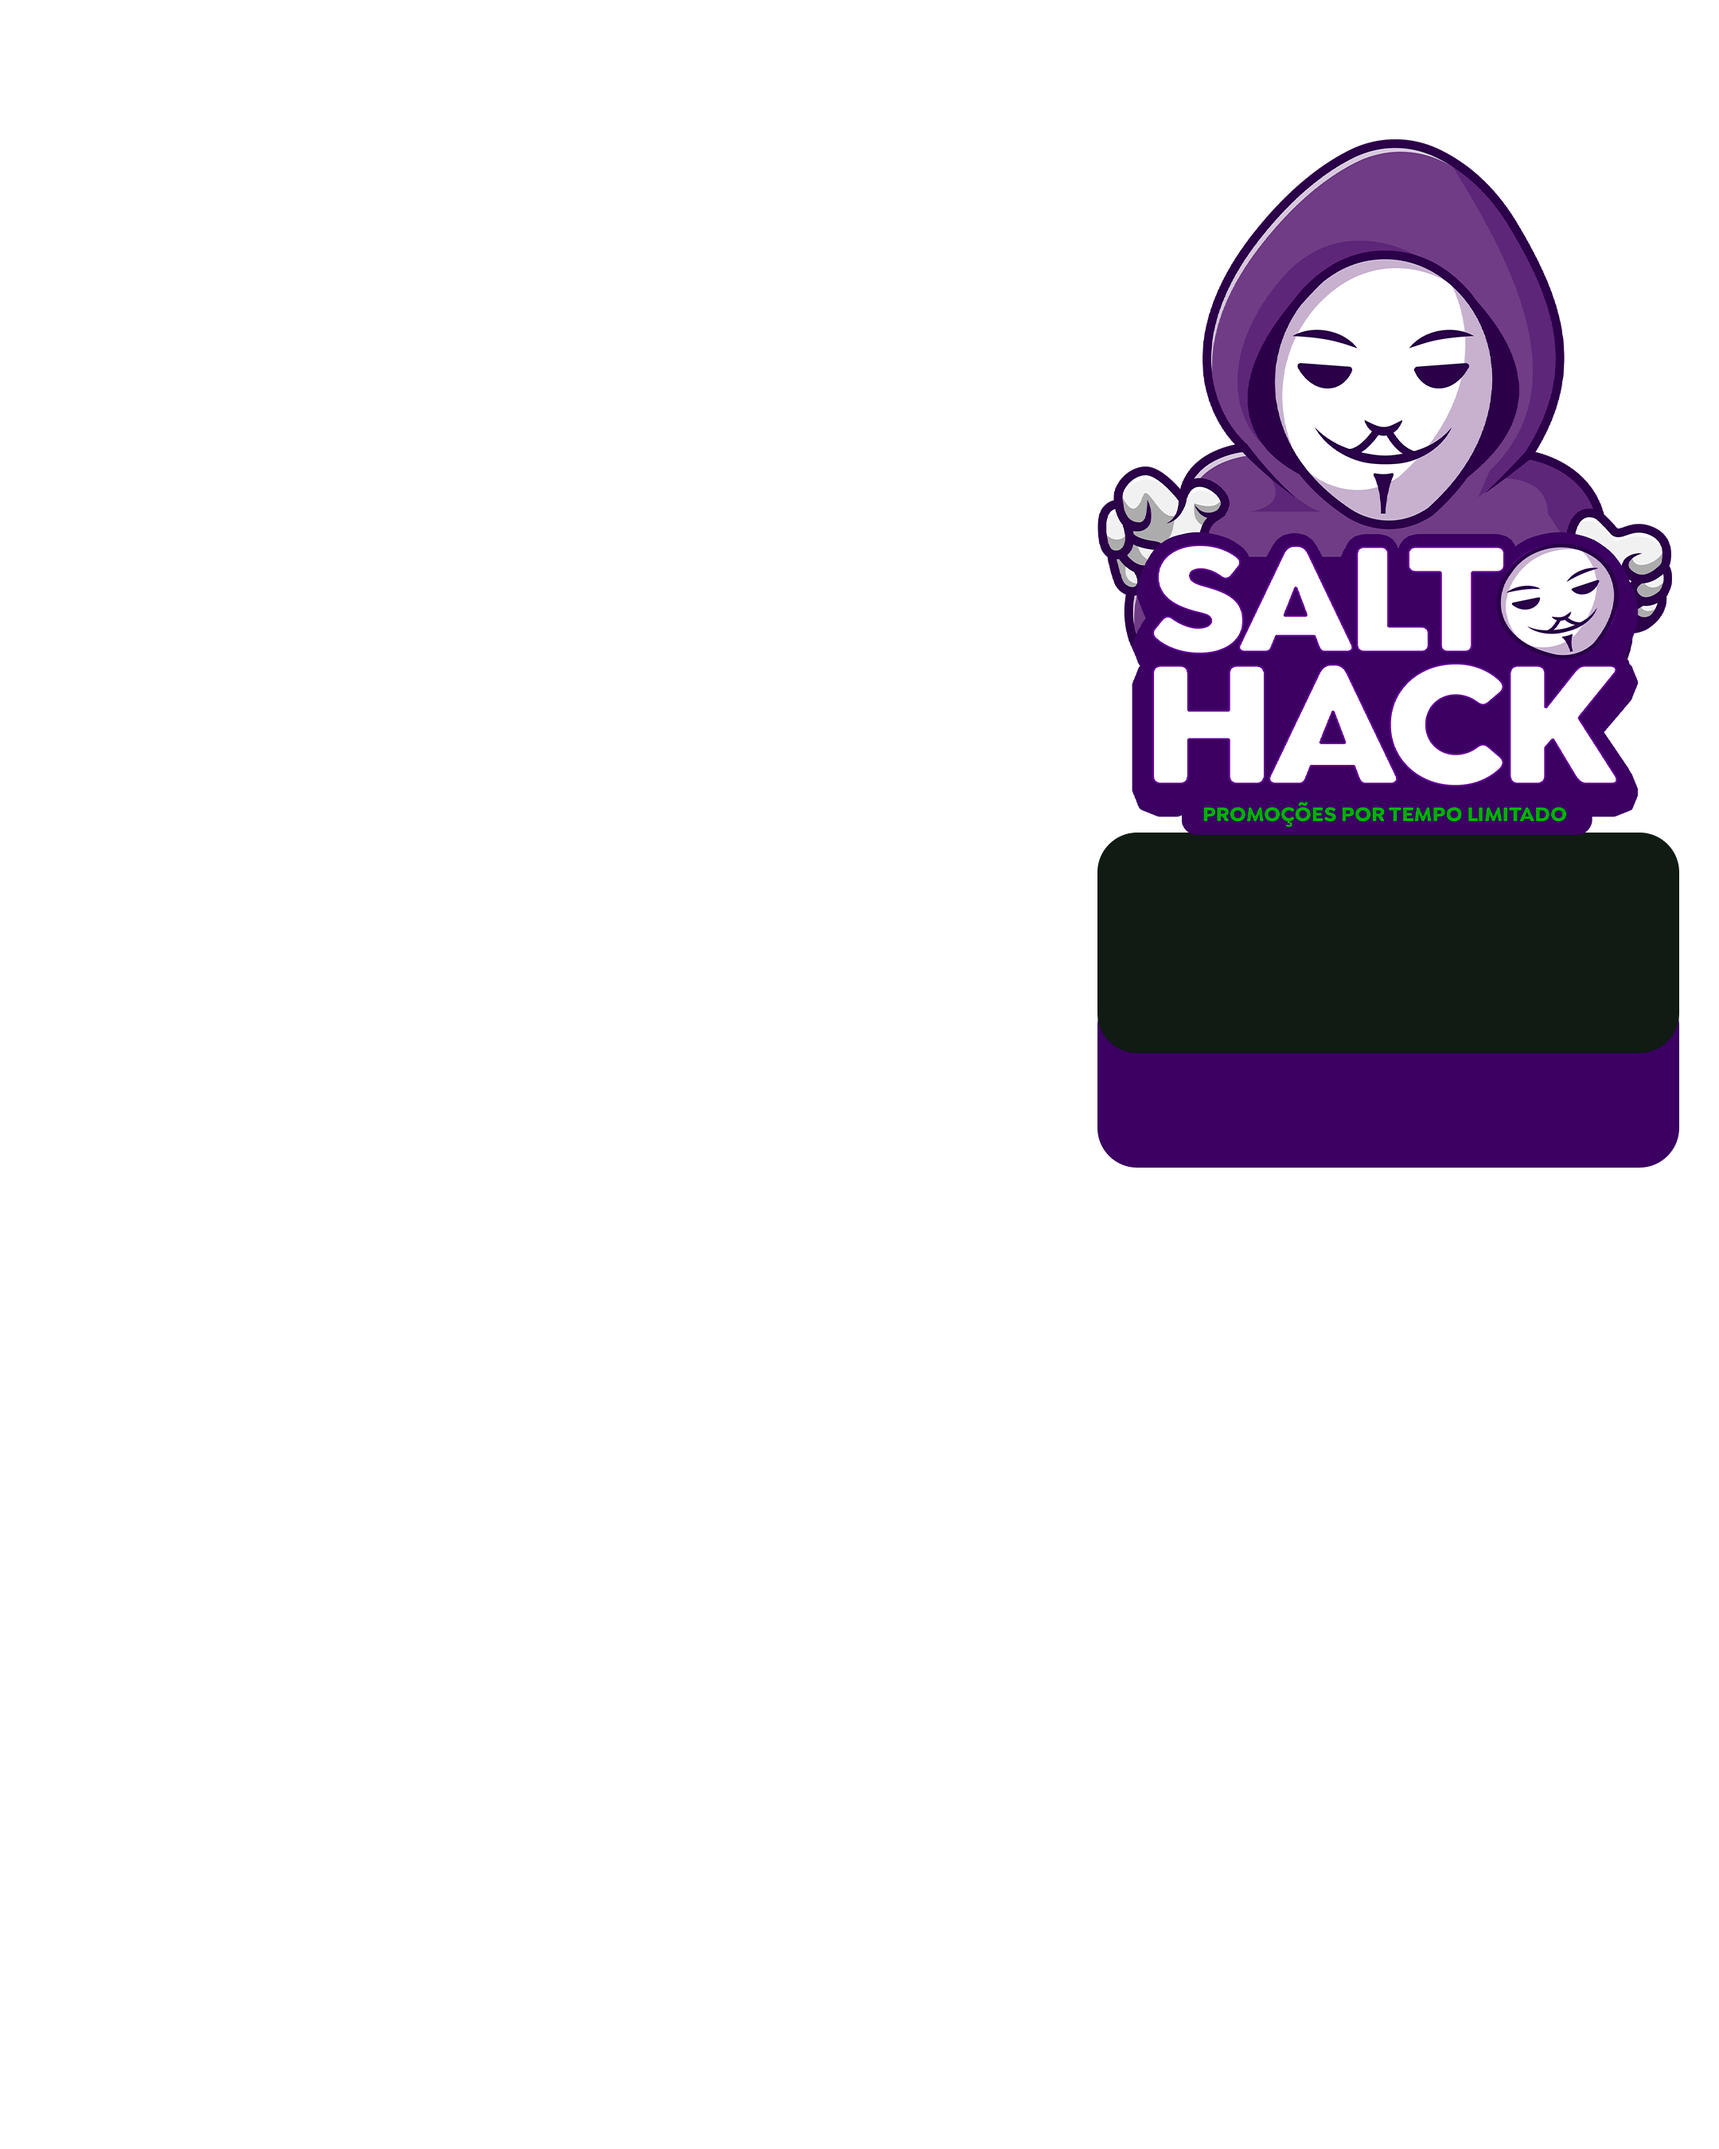
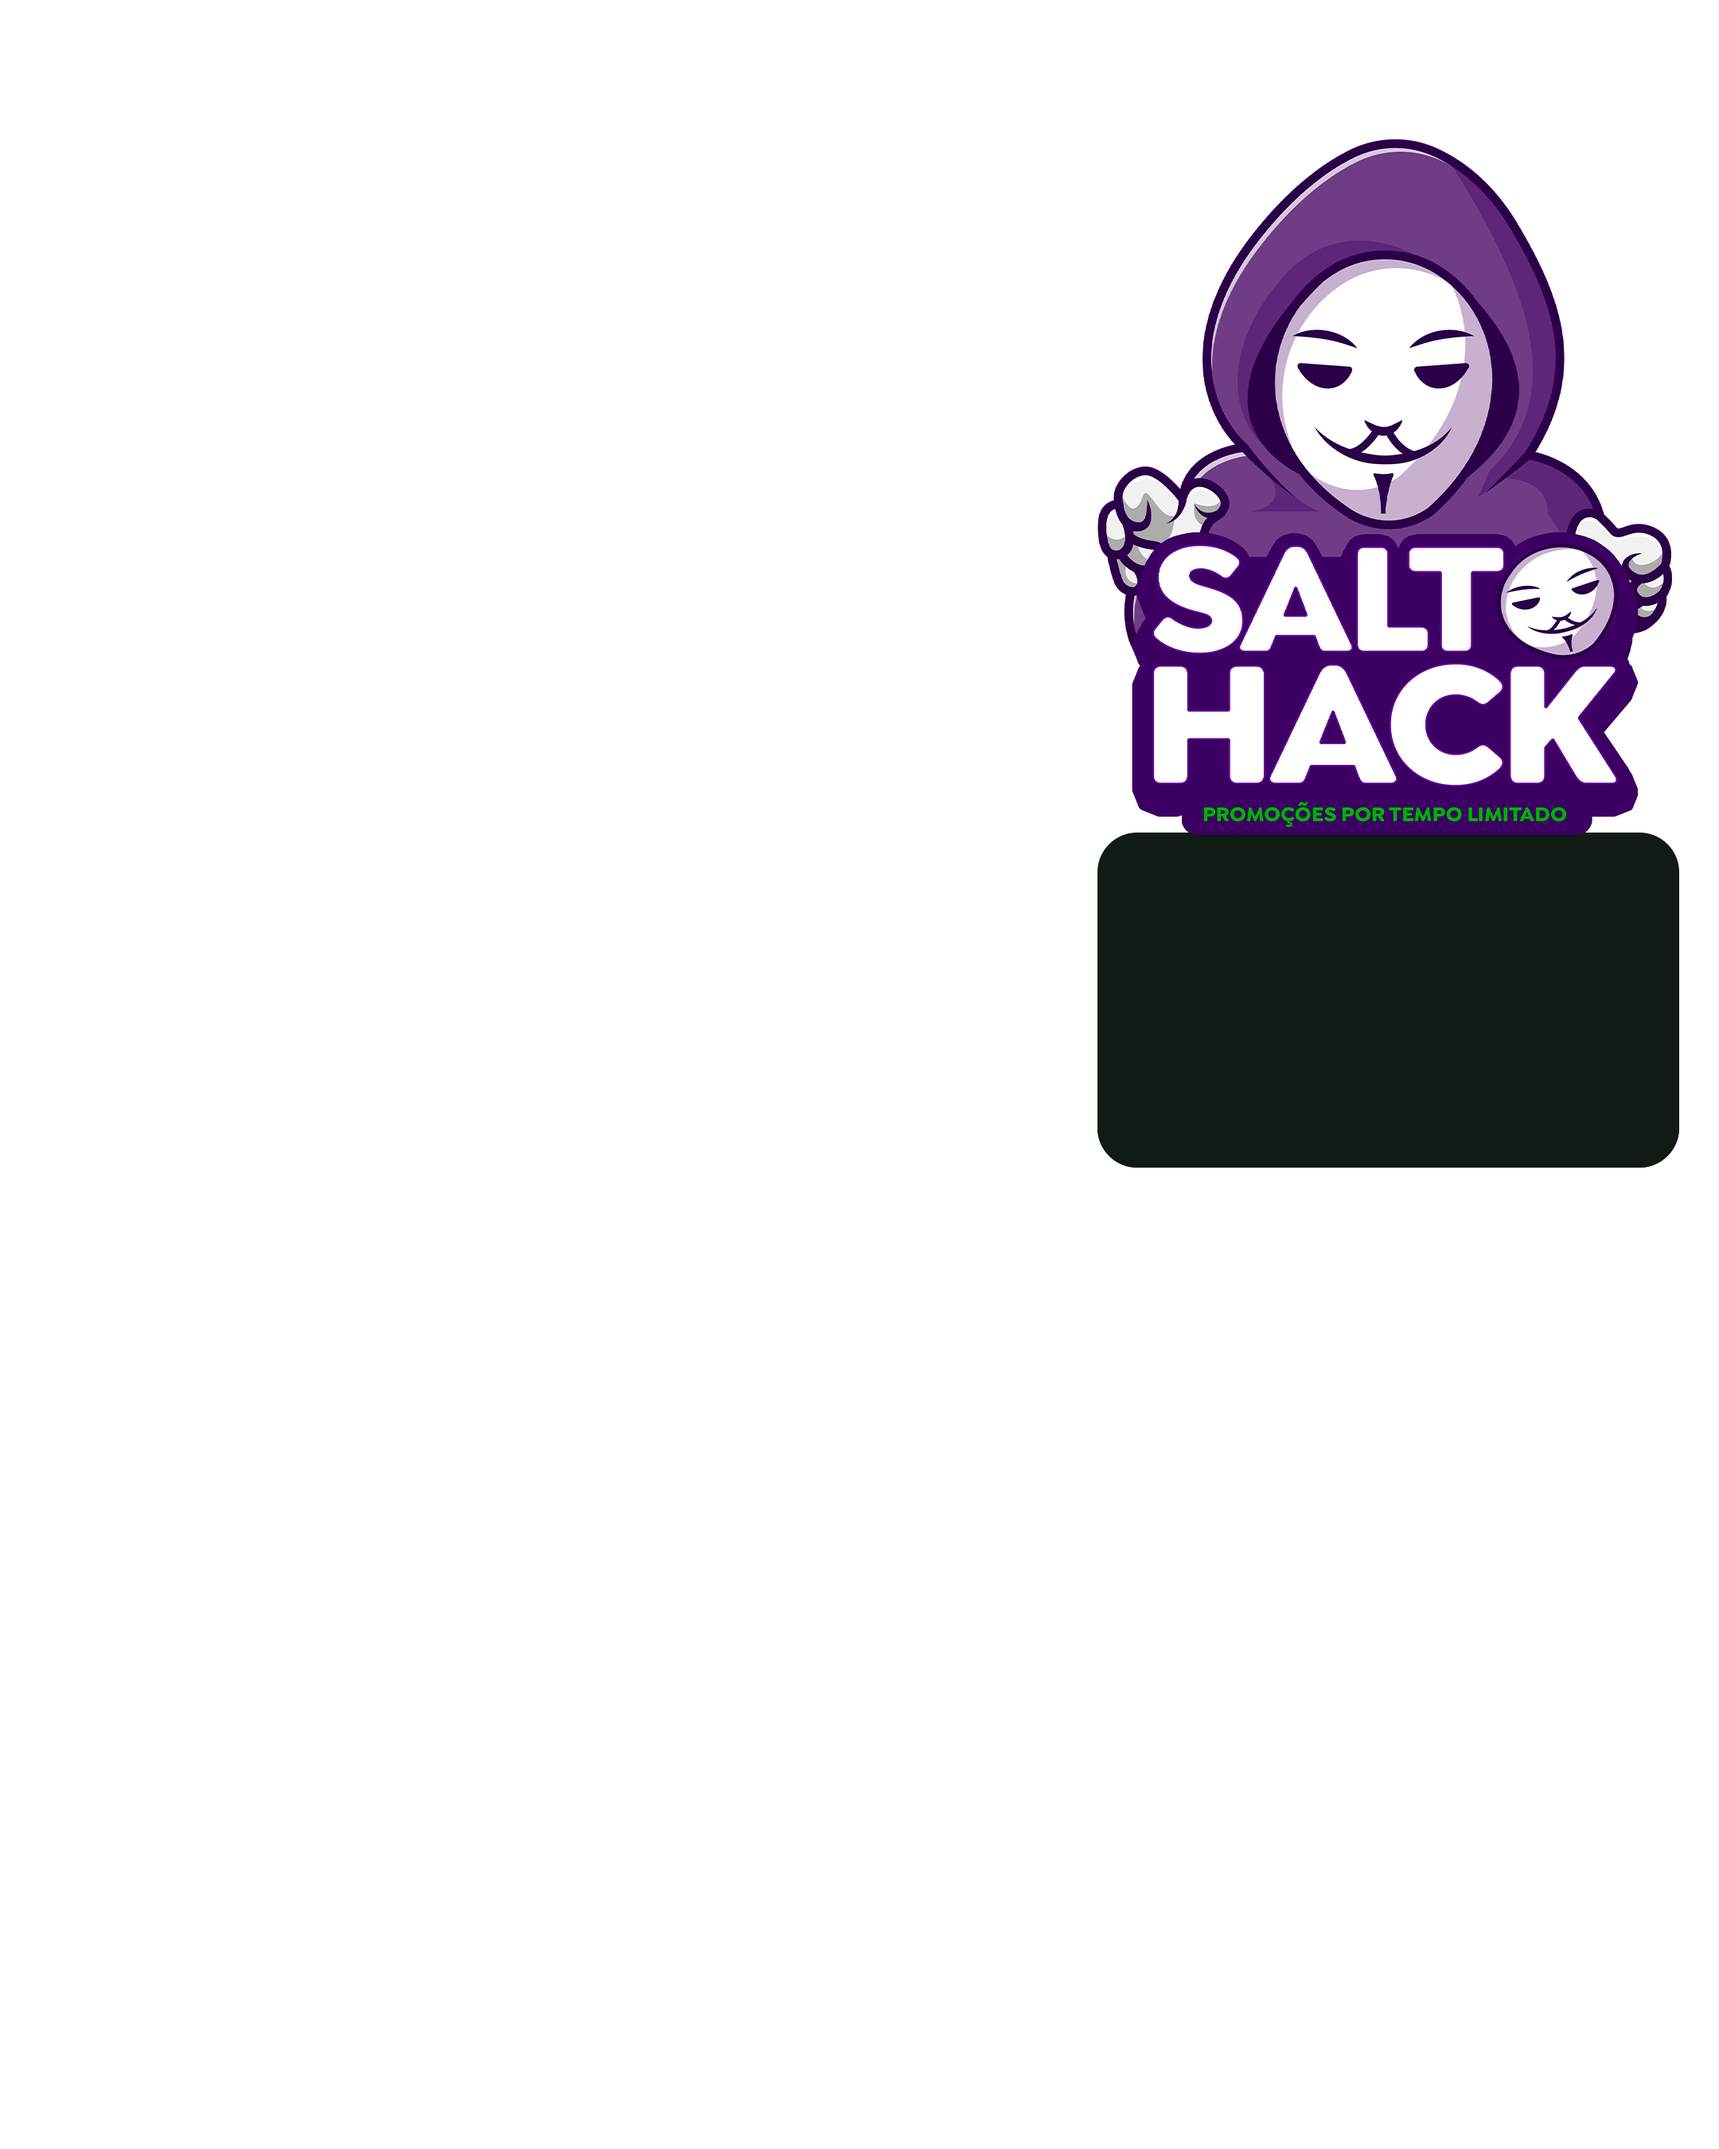
ajustar posiciones de elementos en CategorySection y comentar código no utilizado

Changed region(s): [[0.6204, 0.4667, 0.9926, 0.56]]

diff --git a/src/components/react/catalogo/artes/CategorySection.tsx b/src/components/react/catalogo/artes/CategorySection.tsx
@@ -71,7 +71,7 @@ export const CategorySection = ({
             </div>
           </div>
 
-          <div className=" absolute  top-[630px] right-[140px] text-5xl text-center z-40">
+          <div className=" absolute  top-[670px] right-[135px] text-5xl text-center z-40">
             <span className=" text-[25px] font-bold tracking-[3px]">Aproveite com</span>
             <p className=" relative ">
                <span className=" text-[150px] font-black tracking-tighter leading-[110px]">
@@ -85,7 +85,7 @@ export const CategorySection = ({
             </p>
           </div>
 
-          <div className=" absolute  top-[795px] left-[925px] text-5xl  z-40">
+          {/* <div className=" absolute  top-[795px] left-[925px] text-5xl  z-40">
             <span className=" text-[25px] font-bold tracking-[1px]">De ${
                 showPrices ? formatPriceUSD(Number(product.price)) : "??,??"
               }</span>
@@ -94,7 +94,7 @@ export const CategorySection = ({
                 showPrices ? formatPriceUSD(Number(product.promotion?.data?.data.fixedPrice)) : "??,??"
               }
             </p>
-          </div>
+          </div> */}
           
 {/* 
           <img
